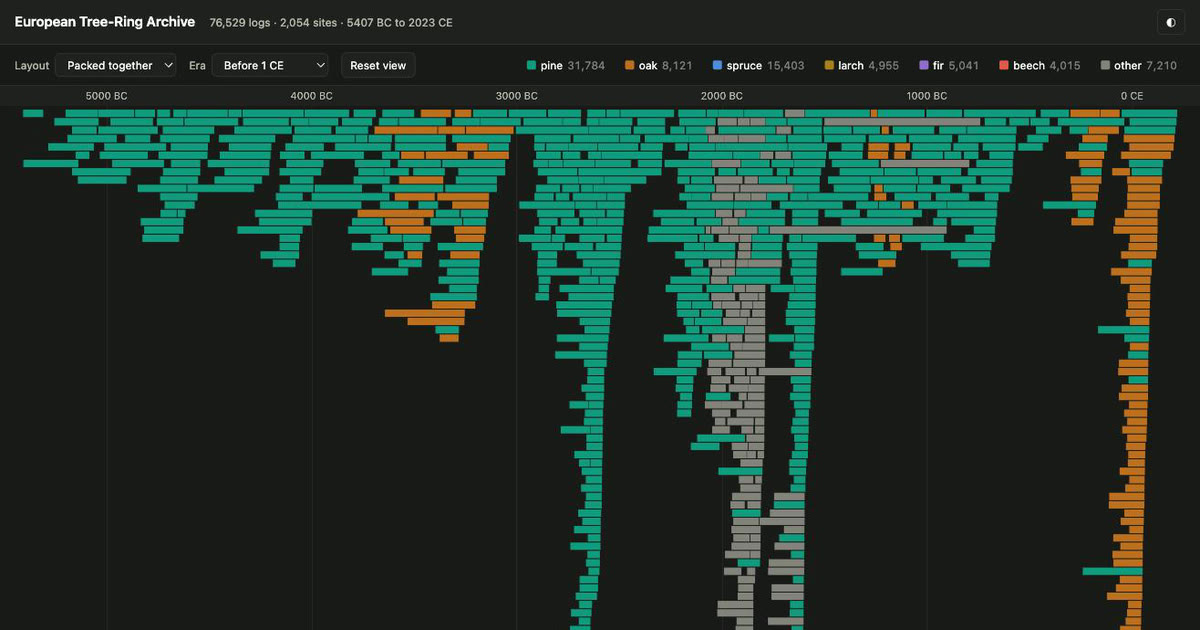
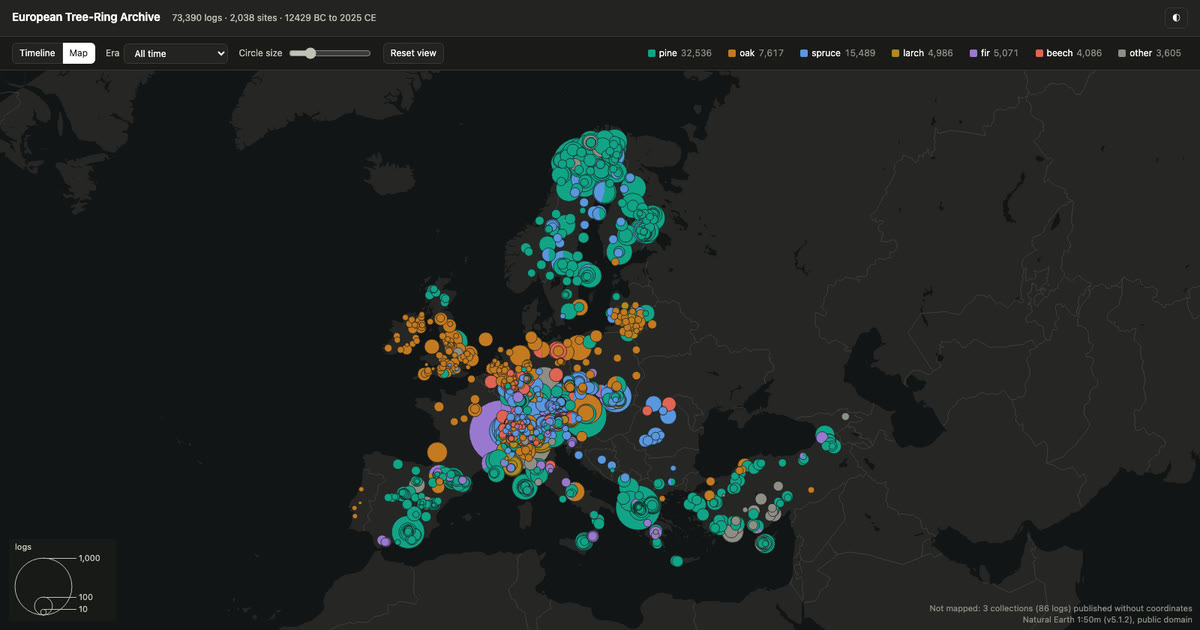
Show on map, keep selections across views, zoom the timeline in 2-D
- A log's detail panel gets "Show on map": centre on its circle, open the
  place panel, and mark its collection.
- Each view keeps its own selection across a switch.  A timeline selection is
  dropped when a filter hides its log, which also stops a hidden selected log
  being outlined at row 0.
- The timeline wheel zooms both axes about the cursor, like the map; shift
  zooms rows only and alt time only.
- NCEI templates print missing values as "None"/"nan"; the parser now treats
  them as absent (146 field values: 144 elevations, 2 common names).  Taxon
  names fall back to the Latin name before the species code.
- og.jpg recaptured from the map view, with new alt text.

diff --git a/web/app.js b/web/app.js
@@ -214,6 +214,11 @@ function applyFilters() {
     keep.push(i);
   }
   state.visible = Int32Array.from(keep);
+  // A hidden log has no row, so its outline would land on row 0.
+  if (state.selected >= 0 && !state.visible.includes(state.selected)) {
+    state.selected = -1;
+    $('detail').classList.remove('open');
+  }
   state.siteCounts = siteCounts;
   state.pointCounts = pointCounts;
   state.pointTotals = new Int32Array(state.points.length);
@@ -592,25 +597,33 @@ canvas.addEventListener('mouseleave', () => {
   draw();
 });
 
+/* The wheel zooms both axes about the cursor, as on the map; shift restricts
+ * it to rows and alt (option) to time.  Each axis stops at its own clamp, so
+ * past MAX_PX_PER_ROW a plain wheel keeps zooming time alone. */
 canvas.addEventListener('wheel', (e) => {
   e.preventDefault();
   if (state.display === 'map') return mapWheel(e);
-  if (e.shiftKey) {
-    const before = (e.offsetY - 26) / state.view.pxPerRow + state.view.yRow;
-    state.view.pxPerRow = clamp(
-      state.view.pxPerRow * Math.pow(1.0015, -e.deltaY),
-      MIN_PX_PER_ROW, MAX_PX_PER_ROW
-    );
-    state.view.yRow = before - (e.offsetY - 26) / state.view.pxPerRow;
-  } else {
-    const before = yearAt(e.offsetX);
-    state.view.pxPerYear = clamp(
-      state.view.pxPerYear * Math.pow(1.0015, -e.deltaY), 1e-4, 40
-    );
-    state.view.xYear = before - e.offsetX / state.view.pxPerYear;
+  const [px, py] = canvasXY(e);
+  const k = Math.pow(1.0015, -e.deltaY);
+  if (!e.altKey) {
+    const before = (py - 26) / state.view.pxPerRow + state.view.yRow;
+    state.view.pxPerRow = clamp(state.view.pxPerRow * k, MIN_PX_PER_ROW, MAX_PX_PER_ROW);
+    state.view.yRow = before - (py - 26) / state.view.pxPerRow;
+  }
+  if (!e.shiftKey) {
+    const before = yearAt(px);
+    state.view.pxPerYear = clamp(state.view.pxPerYear * k, 1e-4, 40);
+    state.view.xYear = before - px / state.view.pxPerYear;
   }
   draw();
 }, { passive: false });
+
+/* From clientX, not offsetX: Chrome reported offsetX (304, 110) for a
+ * WheelEvent dispatched at canvas (608, 354). */
+function canvasXY(e) {
+  const r = canvas.getBoundingClientRect();
+  return [e.clientX - r.left, e.clientY - r.top];
+}
 
 /* -------------------------------------------------------------- tooltip */
 
@@ -625,7 +638,7 @@ function updateTooltip(i, px, py) {
   const site = siteOf(i);
   const s = state.buf[b + START], e = state.buf[b + END];
   tip.innerHTML =
-    `<div class="tt-title">${esc(site.common || site.species || 'unknown')}</div>` +
+    `<div class="tt-title">${esc(site.common || site.latin || site.species || 'unknown')}</div>` +
     `<div class="tt-years">${fmtYear(s)} – ${fmtYear(e)} · ${e - s + 1} rings</div>` +
     `<div class="tt-row">${esc(site.site)}${site.location ? ', ' + esc(site.location) : ''}</div>`;
   tip.classList.add('visible');
@@ -655,8 +668,12 @@ async function showDetail(i) {
   const s = state.buf[b + START], e = state.buf[b + END];
 
   $('d-title').textContent = seriesId;
+  const mapped = state.sitePoint[state.buf[b + SITE]] >= 0;
+  $('d-map').disabled = !mapped;
+  $('d-map').textContent = mapped ? 'Show on map' : 'No coordinates published';
+  $('d-map').onclick = () => showOnMap(i);
   $('d-sub').innerHTML =
-    `${esc(site.common || site.species)} · ${fmtYear(s)} – ${fmtYear(e)} ` +
+    `${esc(site.common || site.latin || site.species)} · ${fmtYear(s)} – ${fmtYear(e)} ` +
     `· ${e - s + 1} rings`;
 
   const rows = [
@@ -1062,10 +1079,7 @@ function mapMouseMove(e) {
 function mapWheel(e) {
   const mv = state.mapView;
   const W = canvas.clientWidth, H = canvas.clientHeight;
-  // From clientX, not offsetX: Chrome reported offsetX (304, 110) for a
-  // WheelEvent dispatched at canvas (608, 354), and the anchor drifted.
-  const r = canvas.getBoundingClientRect();
-  const px = e.clientX - r.left, py = e.clientY - r.top;
+  const [px, py] = canvasXY(e);
   // Keep the point under the cursor fixed while the scale changes.
   const x = (px - W / 2) / mv.scale + mv.cx;
   const y = (py - H / 2) / mv.scale + mv.cy;
@@ -1127,7 +1141,24 @@ function updateMapTooltip(p, px, py) {
   positionTooltip(px, py);
 }
 
-function openPlace(p) {
+/* Zoom used when jumping to one circle: 100 km per 100 px, enough to pull the
+ * Alpine clusters apart.  Never zooms out. */
+const MAP_FOCUS_SCALE = 1;
+
+function showOnMap(i) {
+  const si = state.buf[i * F + SITE];
+  const p = state.sitePoint[si];
+  if (p < 0) return;
+  setDisplay('map');
+  const mv = state.mapView, pt = state.points[p];
+  mv.scale = clamp(Math.max(mv.scale, MAP_FOCUS_SCALE), mapMinScale(), MAP_MAX_SCALE);
+  mv.cx = pt.x;
+  mv.cy = pt.y;
+  openPlace(p, si);
+}
+
+/* focusSite, if given, is the collection to mark in the list. */
+function openPlace(p, focusSite = -1) {
   state.mapSelected = p;
   const [lo, hi] = ERAS[state.era];
   const groups = state.index.groups;
@@ -1168,9 +1199,9 @@ function openPlace(p) {
     const taxa = [...r.groups]
       .map((g) => `<span class="swatch" style="background:var(--${groups[g]})"></span>`)
       .join('');
-    return `<tr data-site="${si}">` +
+    return `<tr data-site="${si}"${si === focusSite ? ' class="current"' : ''}>` +
       `<td>${esc(s.site)}<div class="code">${esc(s.code)}</div></td>` +
-      `<td>${taxa}${esc(s.common || s.species)}</td>` +
+      `<td>${taxa}${esc(s.common || s.latin || s.species)}</td>` +
       `<td class="num">${r.n.toLocaleString()}</td>` +
       `<td class="num">${fmtYear(r.lo)} –<br>${fmtYear(r.hi)}</td></tr>`;
   });
@@ -1182,7 +1213,9 @@ function openPlace(p) {
     tr.title = 'Show this collection on the timeline';
     tr.onclick = () => setPlace(new Set([si]), state.index.sites[si].site || state.index.sites[si].code);
   }
-  $('place').classList.add('open');
+  if (state.display === 'map') $('place').classList.add('open');
+  const cur = $('p-table').querySelector('tr.current');
+  if (cur) cur.scrollIntoView({ block: 'nearest' });
   draw();
 }
 
@@ -1206,8 +1239,8 @@ function setPlace(sites, label) {
   state.place = { sites, label };
   $('place-chip').textContent = `Place: ${label}`;
   $('place-chip').hidden = false;
+  applyFilters();  // first, so a selection outside the place is dropped before it can reopen
   setDisplay('timeline');
-  applyFilters();
   resetView();
 }
 
@@ -1220,7 +1253,7 @@ function clearPlace() {
 }
 
 const HELP = {
-  timeline: 'Drag to pan · wheel to zoom time · shift+wheel to zoom rows',
+  timeline: 'Drag to pan · wheel to zoom · shift+wheel rows only · alt+wheel time only',
   map: 'Drag to pan · wheel to zoom · circle area proportional to logs · click a circle for its collections',
 };
 
@@ -1239,10 +1272,9 @@ function setDisplay(d) {
   syncDisplayControls();
   state.hover = state.mapHover = -1;
   $('tooltip').classList.remove('visible');
-  $('detail').classList.remove('open');
-  state.selected = -1;
-  $('place').classList.remove('open');
-  state.mapSelected = -1;
+  // Each view keeps its own selection across a switch; only its panel hides.
+  $('detail').classList.toggle('open', d === 'timeline' && state.selected >= 0);
+  $('place').classList.toggle('open', d === 'map' && state.mapSelected >= 0);
   try {
     history.replaceState(null, '', d === 'map' ? '#map' : location.pathname + location.search);
   } catch (err) { /* file:// and sandboxed frames refuse; the hash is a convenience */ }

diff --git a/web/index.html b/web/index.html
@@ -26,7 +26,7 @@
 <meta property="og:image:type" content="image/jpeg">
 <meta property="og:image:width" content="1200">
 <meta property="og:image:height" content="630">
-<meta property="og:image:alt" content="Thousands of coloured bars, one per tree log, packed into rows across a time axis from 5000 BC to 0 CE; overlapping runs of pine, oak and spruce form a descending ladder.">
+<meta property="og:image:alt" content="Map of Europe with 1,463 circles, one per tree-ring sampling location, sized by number of logs and coloured by taxon: pine across Scandinavia, Iberia and the eastern Mediterranean, oak across Britain, Ireland and the north European plain, and spruce, fir and mixed pies packed into the Alps.">
 <meta name="twitter:card" content="summary_large_image">
 
 <link rel="icon" href="/favicon.ico" sizes="32x32">
@@ -92,6 +92,7 @@
       <button class="close" id="detail-close" aria-label="Close">×</button>
       <h2 id="d-title">—</h2>
       <div class="sub" id="d-sub"></div>
+      <button id="d-map">Show on map</button>
       <canvas id="spark"></canvas>
       <div class="spark-caption" id="d-spark-caption"></div>
       <dl id="d-fields"></dl>
@@ -111,7 +112,7 @@
   <footer>
     <span id="f-counts"></span>
     <span id="f-provenance"></span>
-    <span id="f-help">Drag to pan · wheel to zoom time · shift+wheel to zoom rows</span>
+    <span id="f-help">Drag to pan · wheel to zoom · shift+wheel rows only · alt+wheel time only</span>
   </footer>
 
 </div>

diff --git a/web/style.css b/web/style.css
@@ -250,6 +250,9 @@ canvas.panning { cursor: grabbing; }
 #p-table td.num { text-align: right; font-variant-numeric: tabular-nums; white-space: nowrap; }
 #p-table tbody tr { cursor: pointer; }
 #p-table tbody tr:hover { background: var(--surface-3); }
+/* The collection of the log that "Show on map" came from. */
+#p-table tbody tr.current { background: var(--surface-3); box-shadow: inset 3px 0 0 var(--text-primary); }
+button:disabled { cursor: default; opacity: 0.55; }
 #p-table .code { color: var(--text-muted); font-size: 11px; }
 #p-table .swatch {
   display: inline-block; width: 8px; height: 8px; border-radius: 2px; margin-right: 4px;

diff --git a/ehd/corpus.py b/ehd/corpus.py
@@ -285,6 +285,14 @@ class SpanDefectStale(Exception):
 DOI_RESOLVER_RE = re.compile(r"^(?:https?://)?(?:dx\.)?doi\.org/", re.I)
 
 
+# NCEI's maintained templates print a missing value as Python would:
+# "Elevation_m: None" (138 collections), "Elevation_m: nan" (6),
+# "Common_Name: None" (2), counted 2026-10-18.  Read literally, the viewer
+# showed "Elevation None m" and a tree called "None".  "NA" is left out on
+# purpose: it never occurs here and is a plausible real abbreviation.
+NULL_VALUES = {"", "none", "nan", "null"}
+
+
 def read_noaa_header(path: str) -> dict:
     """Parse the ``#``-commented NOAA template header for metadata."""
     out: dict = {}
@@ -301,7 +309,7 @@ def read_noaa_header(path: str) -> dict:
             continue
         key, _, value = line.partition(":")
         field_name = NOAA_FIELDS.get(key.strip())
-        if not field_name or not value.strip():
+        if not field_name or value.strip().lower() in NULL_VALUES:
             continue
         out.setdefault(field_name, value.strip())
     # A few templates (fra053, fra054) give the DOI as a resolver URL; the

diff --git a/tests/test_templates.py b/tests/test_templates.py
@@ -113,3 +113,16 @@ def test_doi_given_as_resolver_url_is_reduced_to_the_bare_name(tmp_path):
         p = tmp_path / "x-rwl-noaa.txt"
         p.write_text(f"#   DOI: {given}\n")
         assert read_noaa_header(str(p))["doi"] == "10.1016/j.quascirev.2010.07.009"
+
+
+def test_printed_nulls_are_missing_values(tmp_path):
+    # NCEI's templates write "Elevation_m: None" / "nan" and "Common_Name: None";
+    # the viewer displayed them as "Elevation None m" and a taxon named "None".
+    from ehd.corpus import read_noaa_header
+
+    for given in ("None", "nan", "NaN", "null", ""):
+        p = tmp_path / "x-rwl-noaa.txt"
+        p.write_text(f"#   Elevation_m: {given}\n#   Common_Name: {given}\n#   Site_Name: Jura\n")
+        meta = read_noaa_header(str(p))
+        assert "elevation" not in meta and "common_name" not in meta, given
+        assert meta["site_name"] == "Jura"

diff --git a/HANDOFF.md b/HANDOFF.md
@@ -10,7 +10,9 @@ calendar anchor), parser cross-validates against dplR at 100%. **Deployed
 2026-10-18** (commit `bcc3b53`, deployment `95753ba3.ehd-612.pages.dev`): the
 2026-10-18 rebuild plus the map view. `verify_deploy.py` 92/92; the new
 `app.js`/`style.css` match the build byte for byte; withdrawn-study shards 404.
-`og.jpg` was **not** recaptured and is still stale (see Link previews).
+Since then, committed but not yet deployed to Cloudflare: `og.jpg` recaptured
+from the map, the UI changes under "Map view" (Show on map, kept selections,
+2-D wheel), and the printed-null fix. Howard is checking them on localhost.
 
 ## Map view (2026-10-18, first attempt, deployed)
 
@@ -55,7 +57,24 @@ would have been deployed. `emit.stale_shards()` now deletes them, and
 
 Before each deploy: run `ehd.basemap` (emit does not build it) and afterwards
 `scripts/verify_deploy.py` (now also checks `/data/basemap.json`).
-Still to do: recapture `og.jpg` (see Link previews) — perhaps with the map.
+Follow-ups (2026-10-18, second round, verified in Chrome by dispatched events):
+
+- **Show on map** button in a log's detail panel: centres the map on its circle
+  (zooming in to at least 1 px/km, never out), opens the place panel and marks
+  the log's collection. Disabled ("No coordinates published") for unmapped logs.
+- **Selections survive switching views**: each view keeps its own selection
+  and only hides its panel. A timeline selection is dropped when a filter hides
+  the log — which also fixes an older bug: a hidden selected log had no row
+  and was outlined at row 0.
+- **Timeline wheel zooms both axes** about the cursor, like the map; shift =
+  rows only (as before), alt/option = time only (the old plain wheel). Each
+  axis stops at its own clamp. Real-wheel feel not yet tried by Howard.
+- **Printed nulls in NCEI templates** are now missing values
+  (`corpus.NULL_VALUES`): `Elevation_m: None` (138 collections) / `nan` (6) had
+  shown as "Elevation None m", and `Common_Name: None` (AUST115, TURK008) as a
+  tree called "None"; those two now show their Latin name. Rebuild diff: only
+  `index.json` changed, exactly those 146 field values. Upstream defect —
+  candidate for the next NCEI mail.
 
 ## Rebuild of 2026-10-18 (deployed 2026-10-18)
 
@@ -549,24 +568,26 @@ them against the built `index.json`, so a rebuild that moves the count fails
 the suite until the head is edited by hand. `og:title` is deliberately *not* the same string as
 `og:site_name`; Facebook stacks the two and repeating the name prints it twice.
 
-**`og.jpg` is now stale in two ways (2026-09-26):** its axis labels were drawn
-by the old off-by-one `fmtYear` (one reads "0 CE"), and it predates the Late
-Glacial and Fenland logs. Recapture it; `og:image:alt` describes the old image
-and should be rewritten with it.
-
-`web/og.jpg` is **a hand-captured screenshot, not a build artifact** — 1200×630,
-the "Packed together / Before 1 CE" ladder, cropped from a 1316×906 browser
-capture and scaled with `ffmpeg`. It is committed because nothing regenerates
-it, and it will drift from the data as the corpus changes. To recapture: open
-the site, set Layout "Packed together" and Era "Before 1 CE", screenshot the
-viewport, then
+`web/og.jpg` is **a captured screenshot, not a build artifact** — 1200×630,
+the map view at "Reset view", dark theme (recaptured 2026-10-18; the previous
+card was the "Before 1 CE" ladder, stale since the `fmtYear` fix). It is
+committed because nothing regenerates it, and it drifts from the data as the
+corpus changes; rewrite `og:image:alt` with it. To recapture, with
+`scripts/serve.py` running:
 
 ```bash
-ffmpeg -i shot.jpg -vf "crop=1316:691:0:0,scale=1200:630:flags=lanczos" -q:v 3 web/og.jpg
+CH="/Applications/Google Chrome.app/Contents/MacOS/Google Chrome"
+"$CH" --headless=new --disable-gpu --hide-scrollbars --user-data-dir=<scratch> \
+  --window-size=1600,903 --virtual-time-budget=8000 --force-device-scale-factor=1 \
+  --screenshot=shot.png "http://localhost:8777/#map"
+ffmpeg -i shot.png -vf "crop=1600:840:0:0,scale=1200:630:flags=lanczos" -q:v 3 web/og.jpg
 ```
 
-The 691 is whatever height gives 1.91:1 at the capture's width; the crop is from
-the top so the title, taxon legend and time axis stay in frame. Rendering this
+Headless Chrome follows the system theme (dark here). 840 is 1600/1.905; the
+window height 903 puts the footer's top border at exactly y=840, so the map is
+fitted to the canvas that ends at the crop line. Measured, not assumed: the
+footer is 63 px at 1600 wide (two lines) — if it wraps differently, re-measure
+or the map is fitted to a canvas taller than the card. Rendering this
 in the pipeline instead was considered and deferred — it would need the taxon
 palette duplicated from `app.js` into Python, which is a second source of truth
 for the one thing HANDOFF says not to change without re-running the validator.
